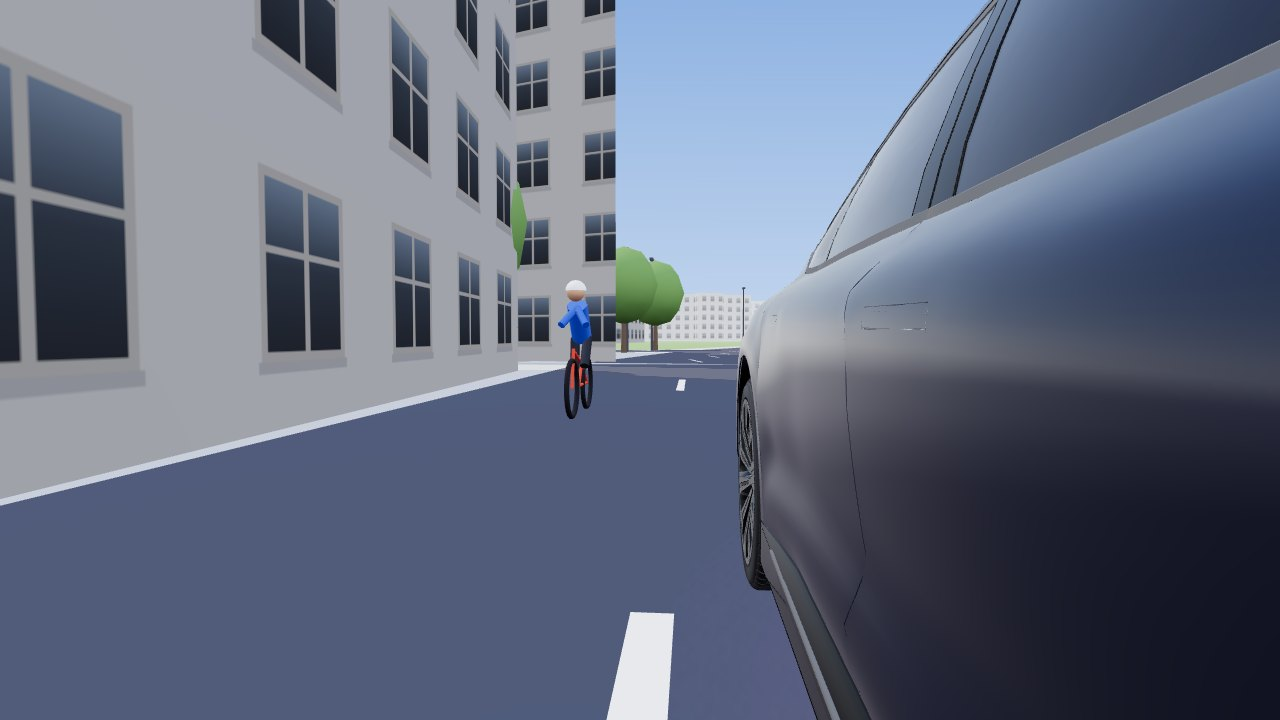
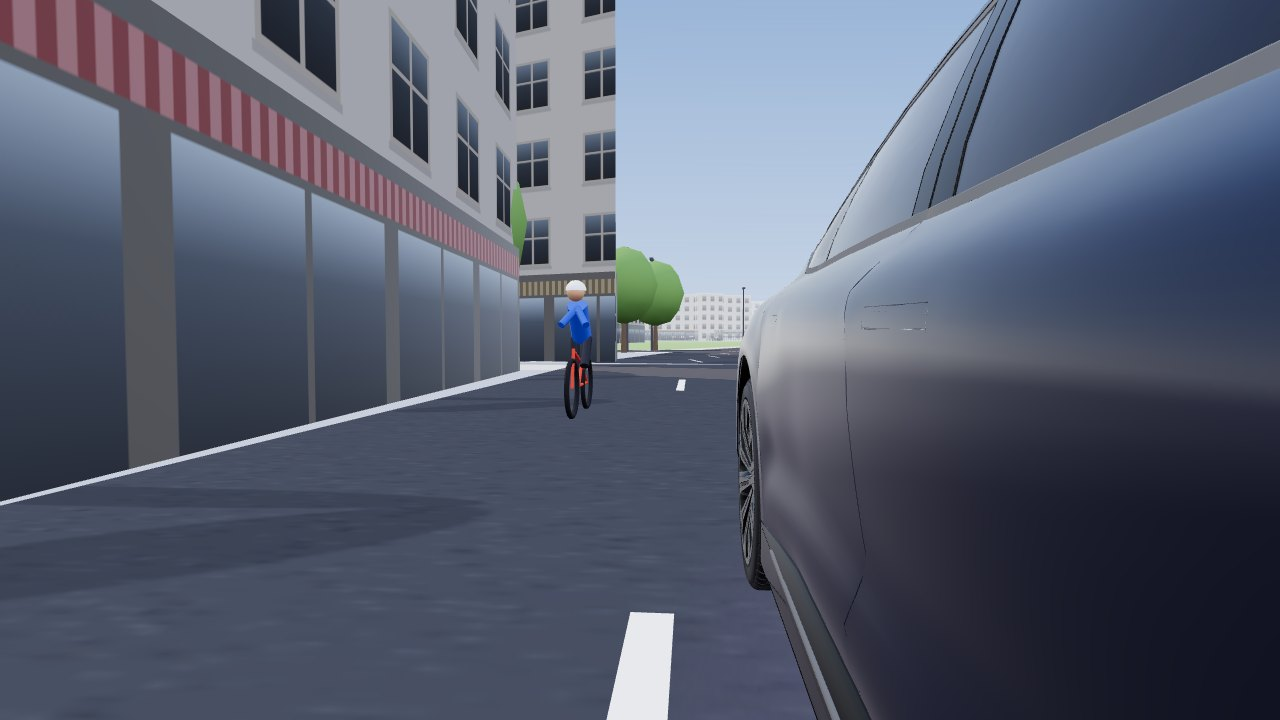
Mark 2: front window gap fixed in Driving; camera feeds more realistic (shopfronts with awnings, cornices, worn asphalt, hazier sky)
Claude-Session: https://claude.ai/code/session_01P73dnHvCVQTA44iCgN1u2F

diff --git a/nio/mark2/prototype.html b/nio/mark2/prototype.html
@@ -4,10 +4,10 @@
 <link rel="preconnect" href="https://fonts.googleapis.com"><link rel="preconnect" href="https://fonts.gstatic.com" crossorigin>
 <link href="https://fonts.googleapis.com/css2?family=Red+Hat+Display:wght@400;500;700&family=Red+Hat+Text:wght@400;500;600;700&display=swap" rel="stylesheet">
 <link href="https://fonts.googleapis.com/css2?family=Material+Symbols+Rounded:opsz,wght,FILL,GRAD@20..48,300..500,0..1,0&display=block" rel="stylesheet">
-<link rel="stylesheet" href="hifi.css?v=134">
-<link rel="stylesheet" href="hifi-dark.css?v=134"><script src="i18n.js?v=134"></script>
+<link rel="stylesheet" href="hifi.css?v=135">
+<link rel="stylesheet" href="hifi-dark.css?v=135"><script src="i18n.js?v=135"></script>
 <script type="importmap">{"imports":{"three":"./vendor/three/build/three.module.min.js","three/addons/":"./vendor/three/addons/"}}</script>
-<link rel="modulepreload" href="vendor/three/build/three.module.min.js"><link rel="modulepreload" href="et9-3d.js?v=134"><link rel="modulepreload" href="vendor/three/addons/loaders/GLTFLoader.js">
+<link rel="modulepreload" href="vendor/three/build/three.module.min.js"><link rel="modulepreload" href="et9-3d.js?v=135"><link rel="modulepreload" href="vendor/three/addons/loaders/GLTFLoader.js">
 <link rel="preload" href="model/et9.glb" as="fetch" crossorigin="anonymous"><link rel="preload" href="model/paint.bin" as="fetch" crossorigin="anonymous">
 <script>(function(){var d=document.documentElement,q=new URLSearchParams(location.search),t='auto';try{t=localStorage.getItem('nio-theme')||'auto'}catch(e){}t=q.get('theme')||t;
 var dk=t==='dark'||(t==='auto'&&window.matchMedia&&matchMedia('(prefers-color-scheme: dark)').matches);d.dataset.pref=t;d.dataset.theme=dk?'dark':'light';d.dataset.night=q.get('night')||'plum';})();</script>
@@ -552,10 +552,10 @@ var dk=t==='dark'||(t==='auto'&&window.matchMedia&&matchMedia('(prefers-color-sc
 </div></div>
 <p class="disc">Map data © OpenStreetMap contributors. Vehicle figures follow published NIO ET9 specifications where available; some values are adjusted for the design study.</p>
 </div>
-<script src="hifi.js?v=134"></script>
+<script src="hifi.js?v=135"></script>
 <script src="https://cdnjs.cloudflare.com/ajax/libs/chess.js/0.10.3/chess.min.js"></script>
-<script src="hmi.js?v=134"></script>
+<script src="hmi.js?v=135"></script>
 <script src="../map/lux-map.js?v=2"></script>
-<script src="../design/nav-map.js?v=134"></script>
-<script type="module" src="et9-3d.js?v=134"></script>
+<script src="../design/nav-map.js?v=135"></script>
+<script type="module" src="et9-3d.js?v=135"></script>
 </body></html>

diff --git a/nio/mark2/batch-1.html b/nio/mark2/batch-1.html
@@ -4,7 +4,7 @@
 <link rel="preconnect" href="https://fonts.googleapis.com"><link rel="preconnect" href="https://fonts.gstatic.com" crossorigin>
 <link href="https://fonts.googleapis.com/css2?family=Red+Hat+Display:wght@400;500;700&family=Red+Hat+Text:wght@400;500;600;700&display=swap" rel="stylesheet">
 <link href="https://fonts.googleapis.com/css2?family=Material+Symbols+Rounded:opsz,wght,FILL,GRAD@20..48,300..500,0..1,0&display=block" rel="stylesheet">
-<link rel="stylesheet" href="hifi.css?v=134">
+<link rel="stylesheet" href="hifi.css?v=135">
 </head><body><div class="wrap">
 <div class="sitebar"><p class="cap">NIO ET9 CENTRE SCREEN · BATCH 1 · HIGH FIDELITY · LAVENDER LIGHT · 1440 × 900 (2880 × 1800 @2×) · built from nio/style-guide.md</p><button class="sound" type="button"></button></div>
 <nav class="toc"><a href="#drive-navigation">1 · Drive: Navigation</a><a href="#blind-spot">2 · Drive: Blind spot view</a><a href="#home">3 · Home</a><a href="#car">4 · Car</a><a href="#car-driving">5 · Car: Driving modes</a><a href="#pet-mode">6 · Pet Mode</a><a href="#parking-suggest">7 · Reserve parking, step 1: Suggest</a><a href="#edit-layout">8 · Edit layout</a><a href="#settings-display">9 · Settings › Display</a></nav>
@@ -465,8 +465,8 @@
 </div></div></section>
 <p class="disc">Vehicle figures follow published NIO ET9 specifications where available; some values are adjusted for the design study. Map data © OpenStreetMap contributors. Weather, air quality and sunset: Open-Meteo, live for Luxembourg.</p>
 </div>
-<script src="hifi.js?v=134"></script>
-<script src="hmi.js?v=134"></script>
+<script src="hifi.js?v=135"></script>
+<script src="hmi.js?v=135"></script>
 <script src="../map/lux-map.js?v=2"></script>
-<script src="../design/nav-map.js?v=134"></script>
+<script src="../design/nav-map.js?v=135"></script>
 </body></html>

diff --git a/nio/mark2/et9-3d.js b/nio/mark2/et9-3d.js
@@ -1040,7 +1040,8 @@ export async function mount(el, opt = {}) {
     if (opt.scene === 'drive') { const t = (now - t0) / 1000, sp = world.speed() / 22; bob = (Math.sin(t * 1.9) * .004 + Math.sin(t * 5.3) * .0015 * sp); pitch = Math.sin(t * 1.3 + 1) * .0025 + Math.sin(t * 4.1) * .001 * sp; }
     body.position.y = S.lift / 1000 * LS + bob; body.rotation.x = pitch;
     P.clip.constant = -(1.115 + body.position.y);
-    { const n = new THREE.Vector3(0, -2.6, -1), l = n.length(); P.aclip.set(n.divideScalar(l), (3.92 + .015) / l); body.updateMatrixWorld(); P.aclip.applyMatrix4(body.matrixWorld); }
+    { const n = new THREE.Vector3(0, -2.6, -1), l = n.length(); P.aclip.set(n.divideScalar(l), (3.92 + .06) / l); body.updateMatrixWorld(); P.aclip.applyMatrix4(body.matrixWorld);
+      const fo = S.win.fl > .005 || S.win.fr > .005, want = fo ? 2 : 1; if (P.paneMatF.clippingPlanes.length !== want) { P.paneMatF.clippingPlanes = fo ? [P.clip, P.aclip] : [P.clip]; P.paneMatF.needsUpdate = true; } }   /* the A-pillar cut only while a front window is down, so closed glass is never trimmed */
     M.head.emissiveIntensity = S.head * 2.2 + S.beam * 1.6; M.tail.emissiveIntensity = S.tail * 2 + S.beam;
     { const hh = smooth(.62, 1, S.head) * .35 + S.beam * .6, blink = S.haz * Math.pow(Math.max(0, Math.sin(now / 1000 * Math.PI * 1.5)), .35);
       P.fx.head.forEach(h => h.material.opacity = hh * .9); P.fx.tail.forEach(h => h.material.opacity = smooth(.62, 1, S.tail) * .5 + S.beam * .6);
